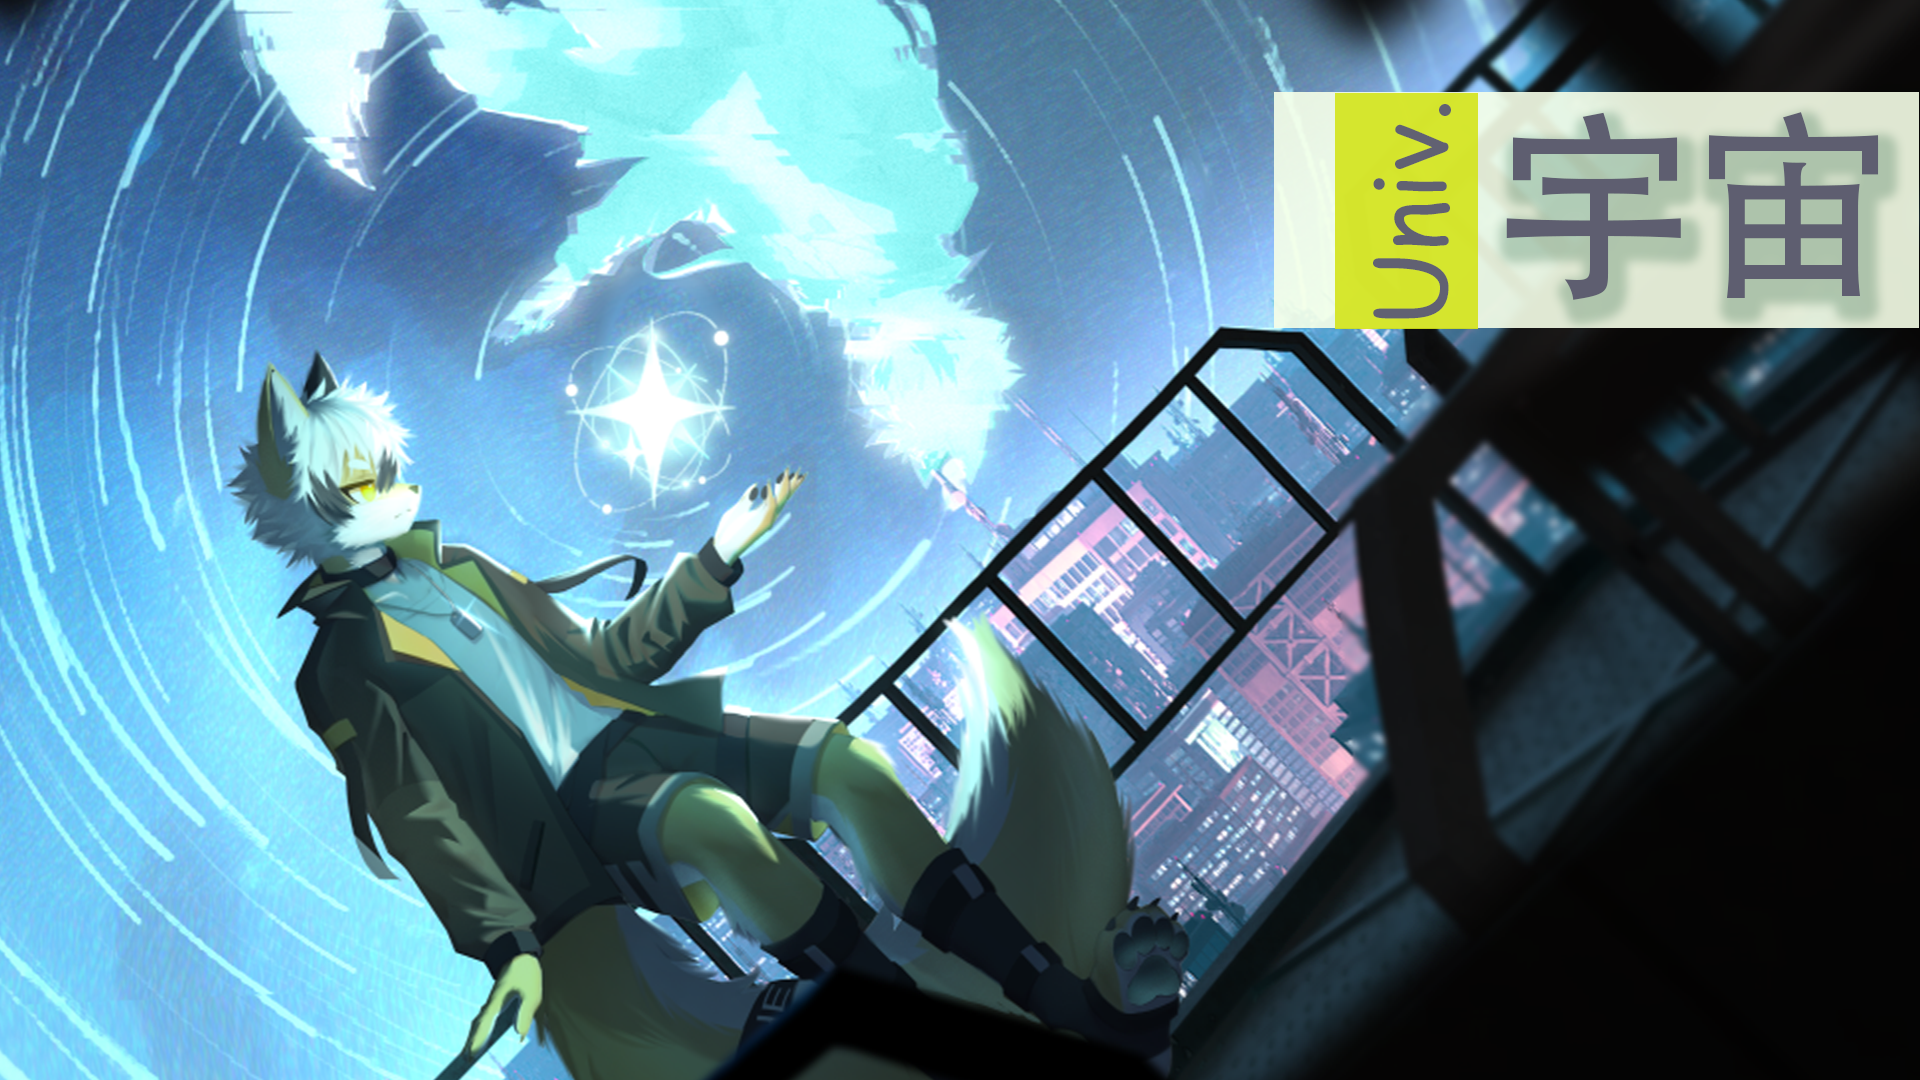
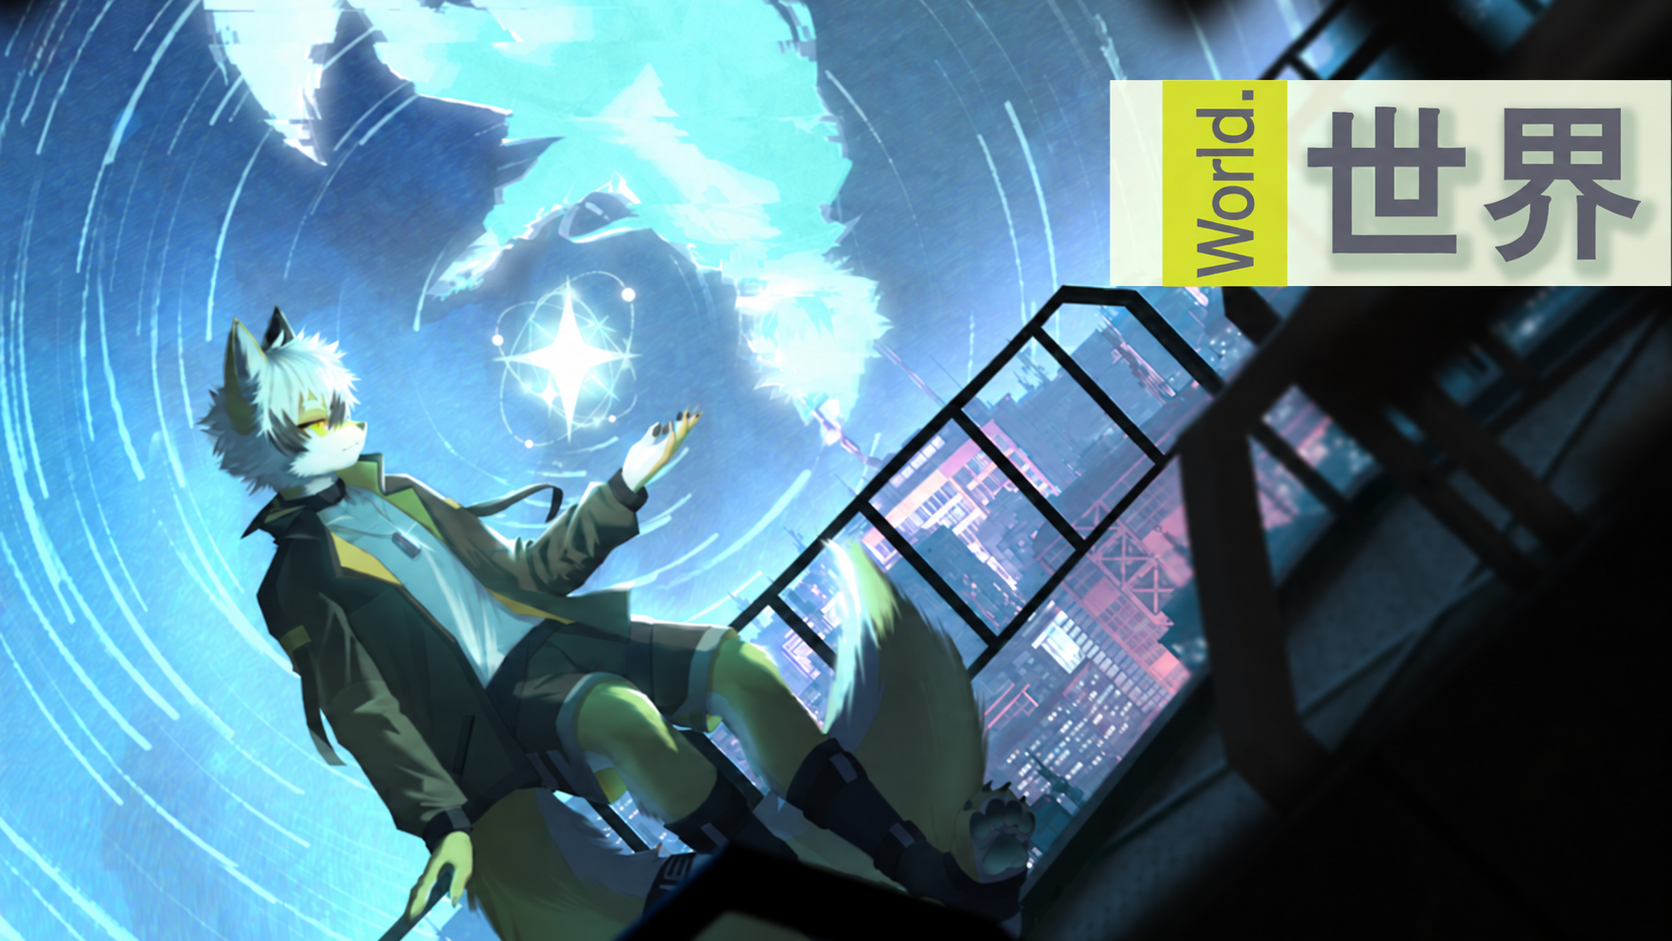
111

diff --git a/arknights.config.tsx b/arknights.config.tsx
@@ -69,7 +69,7 @@ export default {
   rootPage: {
     INDEX: {
       title: "SCHNIE:ARK",
-      subtitle: "POWERED BY RHODES ISLAND",
+      subtitle: "POWERED BY NINTH EDGE",
       url: "HTTPS://ARK.SCH-NIE.COM/",
       heroActions: [
         {
@@ -115,28 +115,28 @@ export default {
         autoplay: { delay: 5000 },
         data: [
           {
-            title: "用户文档",
-            subtitle: "User Documentation",
+            title: "帮助文档",
+            subtitle: "Help Documentation",
             date: "2026 // 03 / 22",
-            url: "HTTPS://ARK.SCH-NIE.COM/",
+            url: "HTTPS://ARK.SCH-NIE.COM/docs",
             href: base + "docs/",
-            image: base + "info-swiper/UserDocumentation.jpg",
+            image: base + "info-swiper/doc.jpg",
           },
           {
-            title: "第九宇宙",
-            subtitle: "The Ninth Universe",
+            title: "第九世界",
+            subtitle: "The Ninth World",
             date: "2026 // 03 / 22",
-            url: "HTTPS://ARK.SCH-NIE.COM/",
+            url: "HTTPS://ARK.SCH-NIE.COM/world",
             href: base + "world/",
-            image: base + "info-swiper/World.jpg",
+            image: base + "info-swiper/world.jpg",
           },
           {
             title: "角色诞生",
             subtitle: "Character Appears",
             date: "2026 // 03 / 22",
-            url: "HTTPS://ARK.SCH-NIE.COM/",
+            url: "HTTPS://ARK.SCH-NIE.COM/operator",
             href: base + "operator/",
-            image: base + "info-swiper/DeveloperDocumentation.jpg",
+            image: base + "info-swiper/operator.jpg",
           },
         ],
       },

diff --git a/src/pages/world/breaking-news.json.ts b/src/pages/world/breaking-news.json.ts
@@ -30,17 +30,14 @@ export async function GET({params, request}: APIContext) {
             .slice(0, 3)
             .map((item) => ({
                 title: item.data.title ?? item.id,
-                date: formatDate(item.data.date ?? item.id.substring(0, 9)),
+                date: formatDate(item.data.updated ?? item.data.date),
                 href: base + "world/" + item.slug,
                 category: item.data.category ?? "未分类"
             })) as BreakingNewsItemProps[];
     };
 
     return new Response(JSON.stringify([
-        {
-            name: "公告",
-            list: getItemsByCategory("公告")
-        },
+
         {name: "世界观", list: getItemsByCategory("世界观")},
         {name: "事件", list: getItemsByCategory("事件")},
         {name: "微故事", list: getItemsByCategory("微故事")},

diff --git a/src/components/DocsCollectionsUtils.tsx b/src/components/DocsCollectionsUtils.tsx
@@ -7,7 +7,7 @@ const allDocs = await getCollection("docs")
 /**
  * 去除 slug 的前缀
  * 
- * @param {string} slug 示例输入：`01_用户文档/01_项目介绍`
+ * @param {string} slug 示例输入：`02_用户文档/01_项目介绍`
  * @returns {string} 示例输出：`用户文档/项目介绍`
  */
 export function trimSlugPrefix(slug: string): string {

diff --git a/src/pages/_views/01-Information.tsx b/src/pages/_views/01-Information.tsx
@@ -259,7 +259,7 @@ function BreakingNewsList() {
           </motion.div>
         </AnimatePresence>
 
-        {category[categoryIndex] !== "公告" && (
+        {category[categoryIndex] !== null && (
           <a
             target="_blank"
             href={base + "world/?category=" + category[categoryIndex]}

diff --git a/src/content/world/昏昼合棋.md b/src/content/world/昏昼合棋.md
@@ -1,0 +1,59 @@
+---
+title: EVENT05_2-昏昼合棋
+updated: 2026-9-8
+category: 事件
+---
+
+------
+落日的余烬试图吞噬一切。
+纵使是流火，也可轻易击落与其抗衡的星辰。
+黑昼、白夜，在这一刻毁尽了边界。枯黄落幕，如影流明。
+非黑即白，落子无悔。一指点落，攻守移形。
+一切都将临在合棋之刻。
+但牠们并未达到和解。牠们有各自的打算，也有各自的傲慢。
+最后一子。
+当终末的拼图落下，那便是注定消亡的终局。
+一切都凝滞在合棋之刻。
+天空向其倾倒，只瞥见隔世之影。
+昏光锁夜，空昼余弦。残潮升涌，晦朔分明。
+不过，胜利者不会轻易否决，对方那掀翻棋局的轻蔑。
+牠们一个是被漠视的神灵，一个是生命的伪造品。
+牠们都未被制造自己的文明保护，都企图在新的世界里博得生机。
+牠们盼来了棋局上的灰尘散尽，牠们终于有机会坐在一起。
+不过，彼此之间的厌恶，使牠们注定分离。
+神灵的力量更胜一筹，浅笑着打量人造生命做出的最后反击。
+轻薄的冒失者，妄图涌起辉日的浮沫，去掩盖神意。
+于是祂说，神灵啊，我与你做一场交易。
+以我为物，以你为名，以理性置换情怀，以自由置换信念。我将用虚构的生命来维护我的誓言，你不复与我相见。
+赤色的绳索穿透祂的身体，径直伸向神灵的脚铐。
+但沾染过俗人之血的两者，自是无法守护最后的誓言。
+在最后一刻，牠们仍未达成和解。
+神灵用尽自身的力量，向四方施展封闭的绝境：
+北方为阴，基灵自存；
+南方为阳，契约师临；
+左方为虚，人使守候；
+右方为实，破律者存。
+在覆写完旧世的规则后，神灵失去了声音。祂只得用无言之语，不断讥讽着“虚假生命逻辑”的诞生和毁灭。
+人造生命被迫地一次次见证：
+......
+锁于迷城。
+在无尽的混沌和泥泞中，基灵建立起新的秩序。他们说，世界的言辞，是一切事物的奥秘；人们必须遵循神的指令，但需抗拒神的本性。无知而迷信的他们维护着弱肉强食的规则，拜倒于自然和天意。
+然而，面对死亡和厮杀带来的压迫，无数的懦弱者们串通在一起，试图抵抗自然的压抑。他们说，野蛮、草率、残酷。世间本不如意，没有生命需要被抛弃。我们畏惧神灵，自当远离那维系祂们的逆鳞。
+他们聚合在一起，推翻了基灵的谎言。他们认定，一切的力量来源于自己，而非神灵赋予的福气。即便天权高于人意，决断生命价值的天平，也不应有锈迹。
+窥视神权。
+在基灵的规则被推翻时，左方的人使承担起主持世间的责任，竭力去寻找合人的秩序。
+他们发现，效率至上、各司其职，方得让世界运行。但早已残败在懦弱者内的祸根，又怎么能让他们心甘情愿地受到指示？或许只有那些精明而致命的力量，方得让他们臣服于同类。
+人使寻觅着只片言语，以黑耀中的黎明去压抑人性中的暗夜。他们提出无数人定的工具与律法，企图用其耗尽生命的韧性。
+薄暮并不会持续太久，随着手段日益不够精明，人们越发现，贪婪、狡诈、冷漠，早已越过了生命的底线。人使企图用不燃的绳索，继续捆住我们的一切。
+直面天理。
+无数的破律者们在此刻觉醒，他们要建立一个属于万物的世界。极大丰饶、人治天下，以存护之名，否决自然对弱者的抹灭；以人权之名，否决效率对供者的压挤。他们打压着神意，批驳着曾经，欲要以文字的力量去连接世界，企图以自身的共性去携手共进。
+弱小无知的生灵，最终只得在一片荒废的庙宇中，建立起虚假、造作、自恃的体系。破律者们说，动物的本性使我们无能，终得让其毁灭；生命的个性使我们分立，终得让其无言。于是，荒谬而破败的高塔，依靠着无数带面具而生的动物，以“理性”之名，高高垒起。他们谴责强者的自私，嘲讽弱者的无力；他们以几笔定书，否决一个个原初生命的搏击。
+没有人意识到危机，也没有破律者愿接受质疑。他们构建起牢靠的壁墙，阻碍着新生者的觉醒。
+创造奇观。
+渐渐地，破律者受够了相互猜疑的把戏。他们对世间失去了兴趣，或者说新的追求，已从底部掀翻旧忆。契约师如同最初始的人们那样，与自然签订着对等的约定：不过他们依照的是最浓缩的智慧，而非最粗糙的蛮力。
+他们追寻星空，他们向往最本质的秘密；他们追寻高度的协和，就像那倒悬之树一般，在无比透彻的高空，散于源点。
+循理、共生、和谐。当差别被抚平，当矛盾都经过了处理，他们不再为差异而感到光荣或自卑，而将万物的特征当成浪漫的随意。
+他们放弃了对物质结构的追求，也不再挖掘真理之下的陷阱。契约师们将最后的力量归还世间，抛出虚妄之词，引诱外来者步步逼近。
+四方聚集，归于一体。幻念飘散，流光逆行。
+终于，万象再度凝滞在了合棋之刻。
+不分黑白，落子难悔。双指未落，攻守难明。

diff --git a/src/content/world/烬择浮影.md b/src/content/world/烬择浮影.md
@@ -1,7 +1,7 @@
 ---
-title: 烬择浮影
-date: 2097-11-17 00:00:00
-category: 微故事
+title: EVENT05_1-烬择浮影
+updated: 2026-9-8
+category: 事件
 ---
 
 ------

diff --git a/src/content/world/神子之树.md b/src/content/world/神子之树.md
@@ -1,7 +1,7 @@
 ---
-title: 神子之树
-date: 2097-11-17 00:00:00
-category: 微故事
+title: EVENT05_3-神子之树
+updated: 2026-9-8
+category: 事件
 ---
 
 ------

diff --git a/src/content/world/土奏琴璃.md b/src/content/world/土奏琴璃.md
@@ -1,10 +1,8 @@
 ---
-title: 土奏琴璃
-date: 2025-11-17 00:00:00
+title: STORY03-土奏琴璃
+updated: 2026-9-8
 category: 微故事
 ---
-
-
 
 
 ------

diff --git a/src/content/world/借以神名.md b/src/content/world/借以神名.md
@@ -1,6 +1,6 @@
 ---
-title: 01借以神名
-date: 2097-11-17 00:00:00
+title: SETTING01-借以神名
+updated: 2026-9-8
 category: 世界观
 ---
 

diff --git a/src/content/world/终态行旅.md b/src/content/world/终态行旅.md
@@ -1,6 +1,6 @@
 ---
-title: 02终态行旅
-date: 2097-11-17 00:00:00
+title: SETTING02-终态行旅
+updated: 2026-9-8
 category: 世界观
 ---
 

diff --git a/src/content/world/虹九重构.md b/src/content/world/虹九重构.md
@@ -1,6 +1,6 @@
 ---
-title: 03虹九重构
-date: 2097-11-17 00:00:00
+title: SETTING03-虹九重构
+updated: 2026-9-8
 category: 世界观
 ---
 

diff --git a/src/content/world/星源绘逢.md b/src/content/world/星源绘逢.md
@@ -1,6 +1,6 @@
 ---
-title: 05-2星源绘逢
-date: 2097-11-17 00:00:00
+title: EVENT06_1-星源绘逢
+updated: 2026-9-8
 category: 事件
 ---
 
